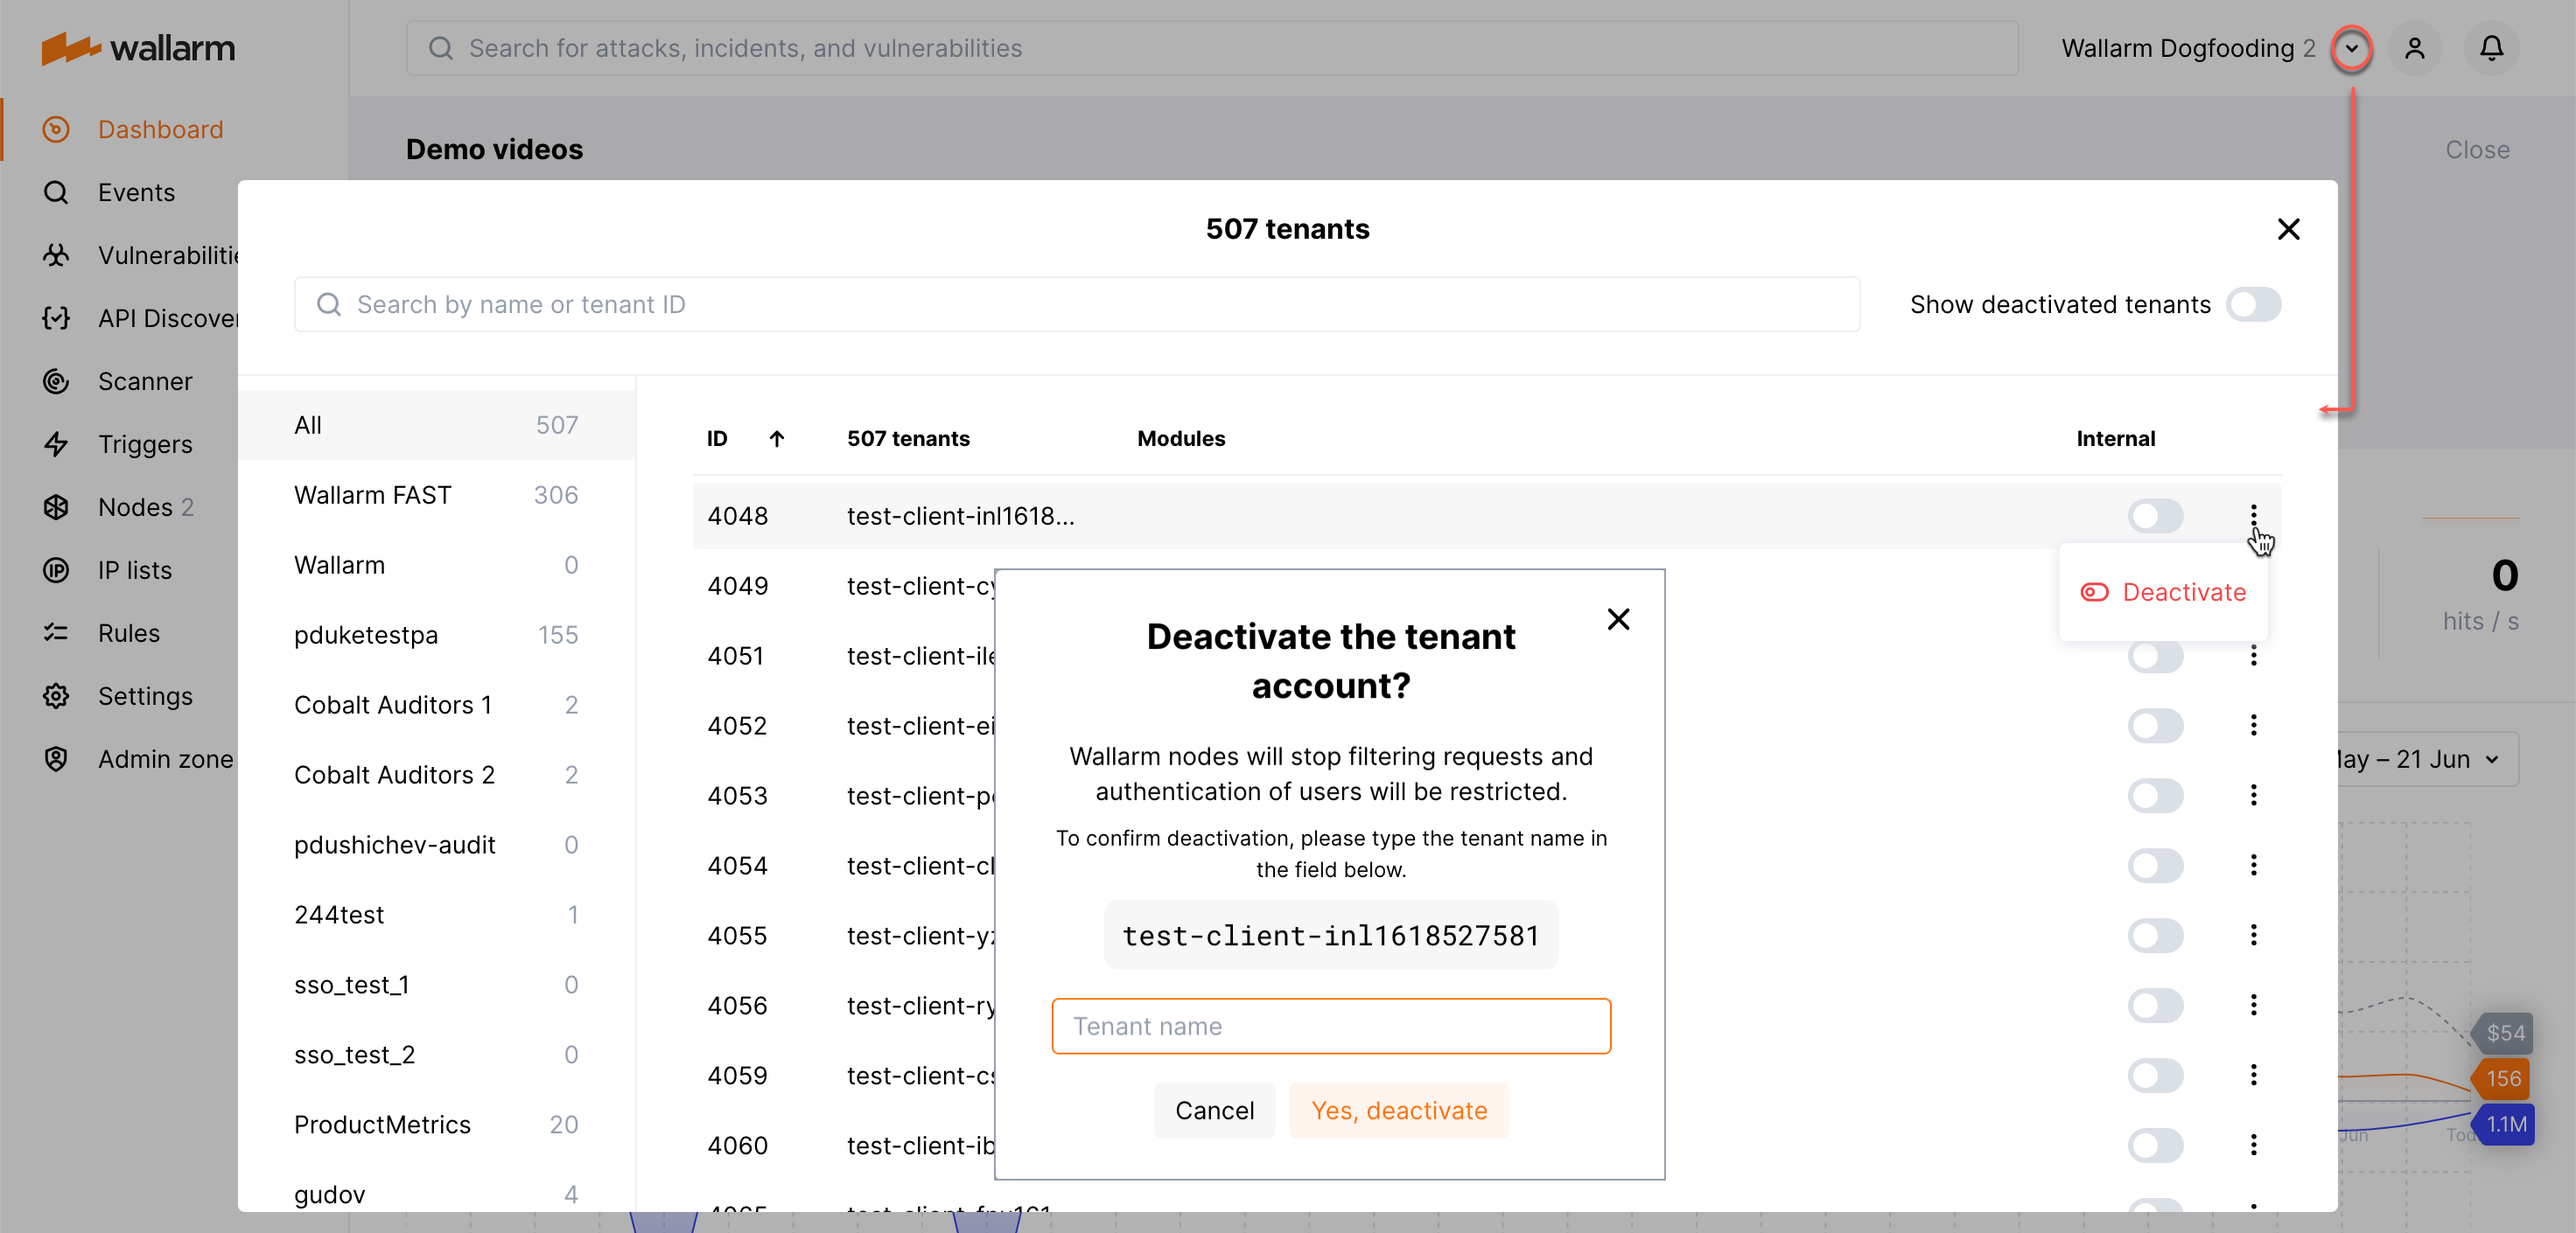
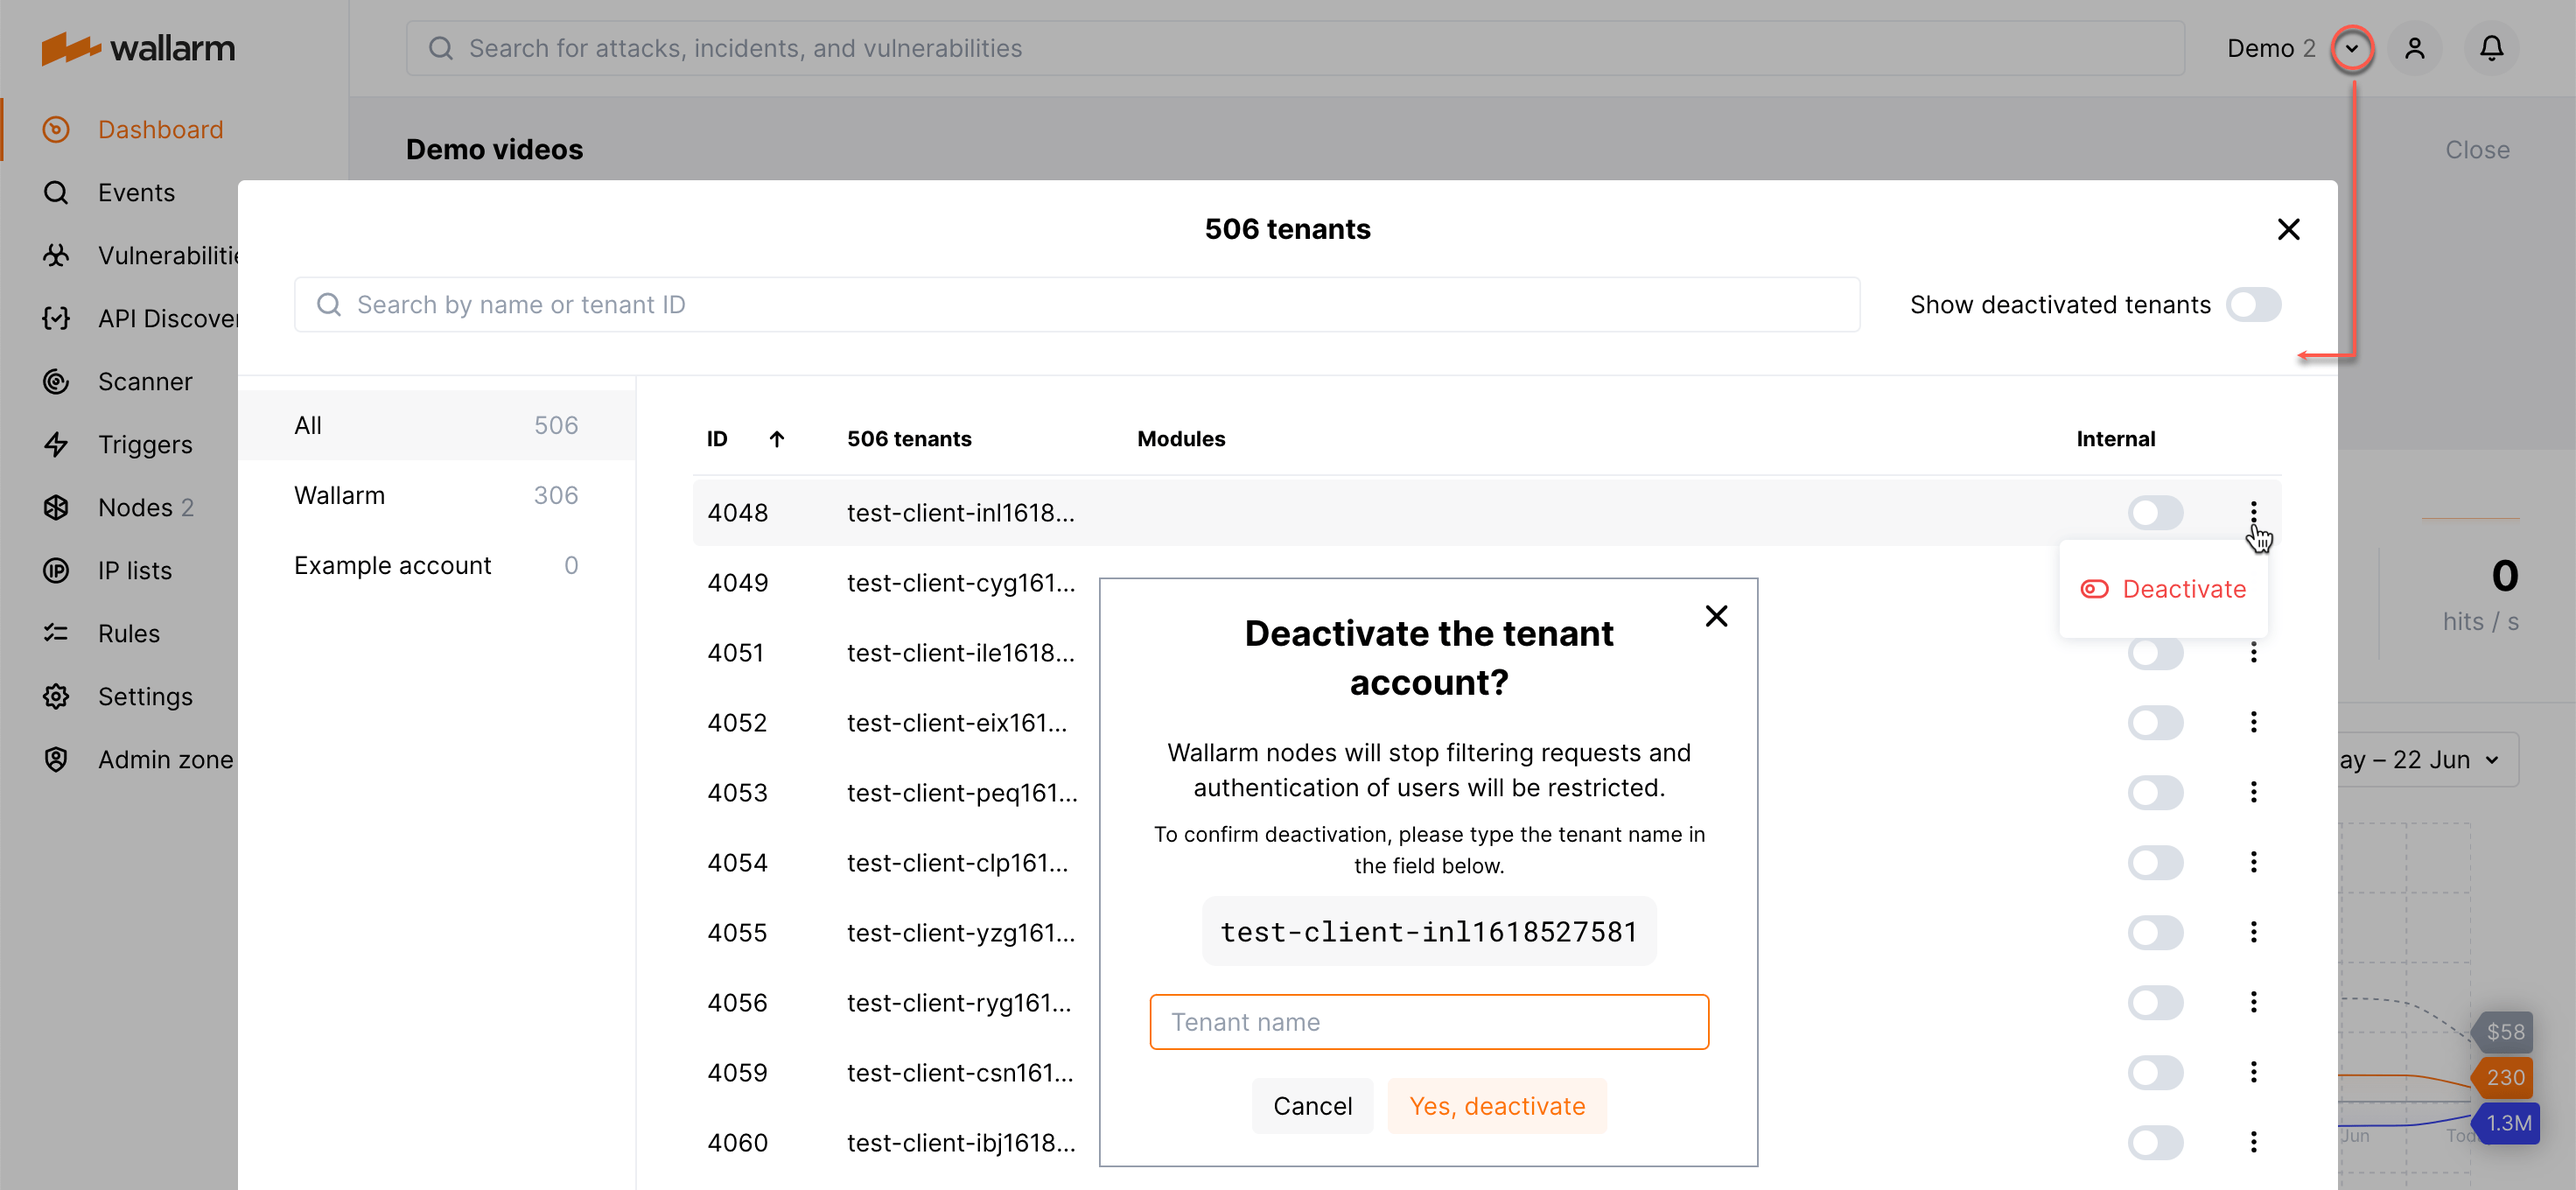
DOCS-1655 Simplify content due to comments

diff --git a/docs/latest/waf-installation/multi-tenant/configure-accounts.md b/docs/latest/waf-installation/multi-tenant/configure-accounts.md
@@ -154,3 +154,18 @@ In the configuration above, the traffic targeting `tenant1.com`  will be associa
     Users will be able to track blocked requests, analyze discovered vulnerabilities, and perform additional configurations of the filtering node within a certain tenant account. Users will be able to add each other on their own if the roles allow this action.
 
 [Proceed to the multi-tenant node deployment and configuration →](deploy-multi-tenant-node.md)
+
+## Deactivating and activating tenant accounts in Wallarm Console
+
+In Wallarm Console, the user with the **Global administrator** role can deactivate tenant accounts linked to the global account this administrator serves. When the tenant account is deactivated:
+
+* Users of this tenant account has no access to Wallarm Console.
+* Filtering node(s) installed on this [tenant level](deploy-multi-tenant-node.md#multi-tenant-node-characteristics) will stop traffic processing.
+
+Deactivated accounts are not deleted and can be activated again.
+
+To deactivate a tenant account, in the tenant selector, from the tenant menu, select **Deactivate**, then confirm. The tenant account will be deactivated and hidden from the tenant list.
+
+![!Tenant - Deactivate](../../images/partner-waf-node/tenant-deactivate.png)
+
+To activate previously deactivated tenant account, in the tenant selector, click **Show deactivated tenants**, then select **Activate** for your tenant.
